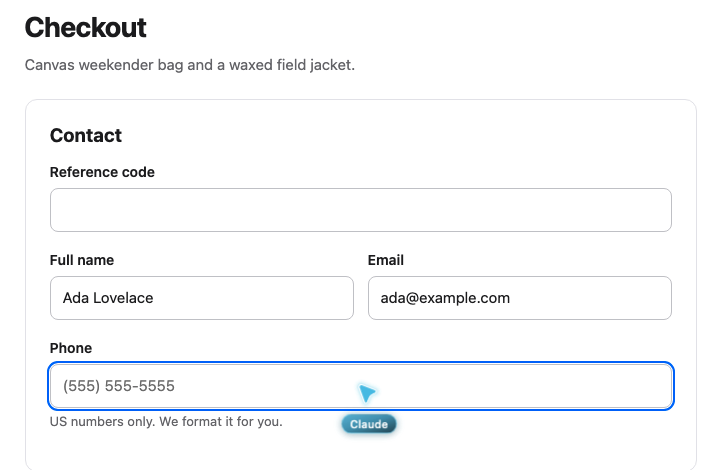
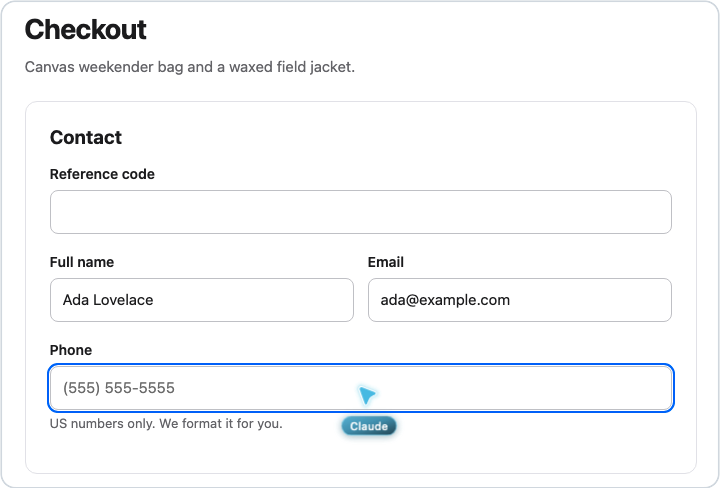
README: framed screenshot, vertical architecture diagram, tighter wording

diff --git a/README.md b/README.md
@@ -6,8 +6,6 @@
 
 <p align="center">Let your AI agents use your real Chrome, in background tabs, without getting in your way.</p>
 
----
-
 FowlBrowser connects Claude Code (or any MCP client) to the browser you already use, with your logins, cookies and
 open tabs. Agents work in their own background tabs, several at once, while you keep working. When you want to watch,
 open an agent's tab and a cursor shows you exactly where it clicks.
@@ -22,7 +20,7 @@ open an agent's tab and a cursor shows you exactly where it clicks.
   share their session's tabs).
 - **A cursor you can follow.** In the tab you're looking at, an animated cursor travels to every click and labels the agent.
 - **Cleans up after itself.** When an agent finishes its turn, its work tabs close. Tabs it opened for you stay.
-- **No prompts or bars.** No "Allow remote debugging?" dialog, and no debugging bar with one launch flag.
+- **No permission prompts.** No "Allow remote debugging?" dialog, and one launch flag hides the debugging bar too.
 - **Built for agents.** Compact page snapshots with element refs, changes-only results, and fast errors that say why
   (for example, "covered by the cookie banner, dismiss it first").
 
@@ -78,9 +76,13 @@ End-of-turn cleanup uses Claude Code hooks; elsewhere, agent tabs close when the
 ## How it works
 
 ```
-Agent ── MCP ──> FowlBrowser server (one per session)
-                   └─ local socket, token-gated ──> helper started by the browser
-                                                       └─ native messaging ──> extension (chrome.debugger, chrome.tabs)
+Agent (Claude Code or any MCP client)
+  │  MCP
+FowlBrowser server, one per session
+  │  local socket, token-gated
+Helper, started by the browser
+  │  native messaging
+Extension: chrome.debugger and chrome.tabs
 ```
 
 The extension drives only the tabs a session opened or was given, through `chrome.debugger`, so the browser never
